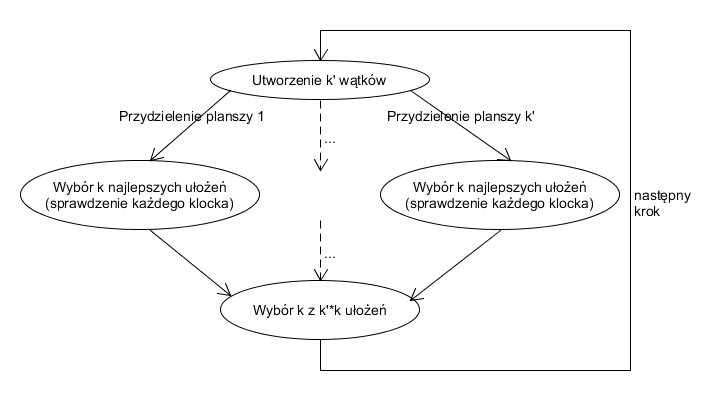
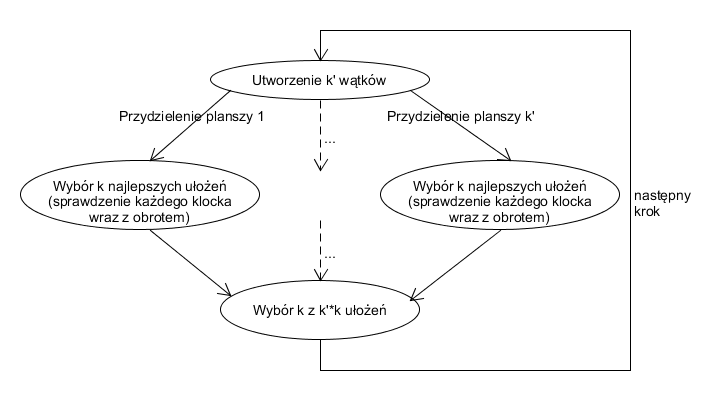
testy paresra, schemat algorytmu

Changed region(s): [[0.55, 0.439, 0.825, 0.5561], [0.0611, 0.439, 0.3361, 0.5561]]

diff --git a/TAiO/TAiO.Tests/ParserTests.cs b/TAiO/TAiO.Tests/ParserTests.cs
@@ -1,0 +1,57 @@
+using System;
+using System.Collections.Generic;
+using System.IO;
+using Microsoft.VisualStudio.TestTools.UnitTesting;
+using TAiO.Tools;
+using TAiO.Model;
+namespace TAiO.Tests
+{
+	[TestClass]
+	public class ParserTests
+	{
+		public ParserTests()
+		{
+			if (File.Exists("ParserTest"))
+				File.Delete("ParserTest");
+			using (FileStream f = File.Create("ParserTest"))
+			{
+				using (TextWriter tw = new StreamWriter(f))
+				{
+					tw.WriteLine("20 1");
+					tw.WriteLine("4 3");
+					tw.WriteLine("1 1 1 1");
+					tw.WriteLine("1 0 1 0");
+					tw.WriteLine("1 0 1 0");
+				}
+			}
+		}
+
+		[TestMethod]
+		public void ParserTest()
+		{
+			List<BlockType> list;
+			int w;
+			Parser.ParseFile("ParserTest", out list, out w);
+			Assert.AreEqual(20, w);
+			Assert.AreEqual(1, list.Count);
+			Assert.AreEqual(4, list[0].Width);
+			Assert.AreEqual(3, list[0].Height);
+			int[,] reference = new int[4, 3]
+			{		
+				{1, 1, 1},
+				{0, 0, 1},
+				{1, 1, 1},
+				{0, 0, 1},
+			};
+			for (int i=0; i<4; ++i)
+				for (int j=0; j<3; ++j)
+					Assert.AreEqual(reference[i,j], list[0].Shape[0][i,j]);
+		}
+
+		[TestCleanup]
+		public void CleanUp()
+		{
+			File.Delete("ParserTest");
+		}
+	}
+}
